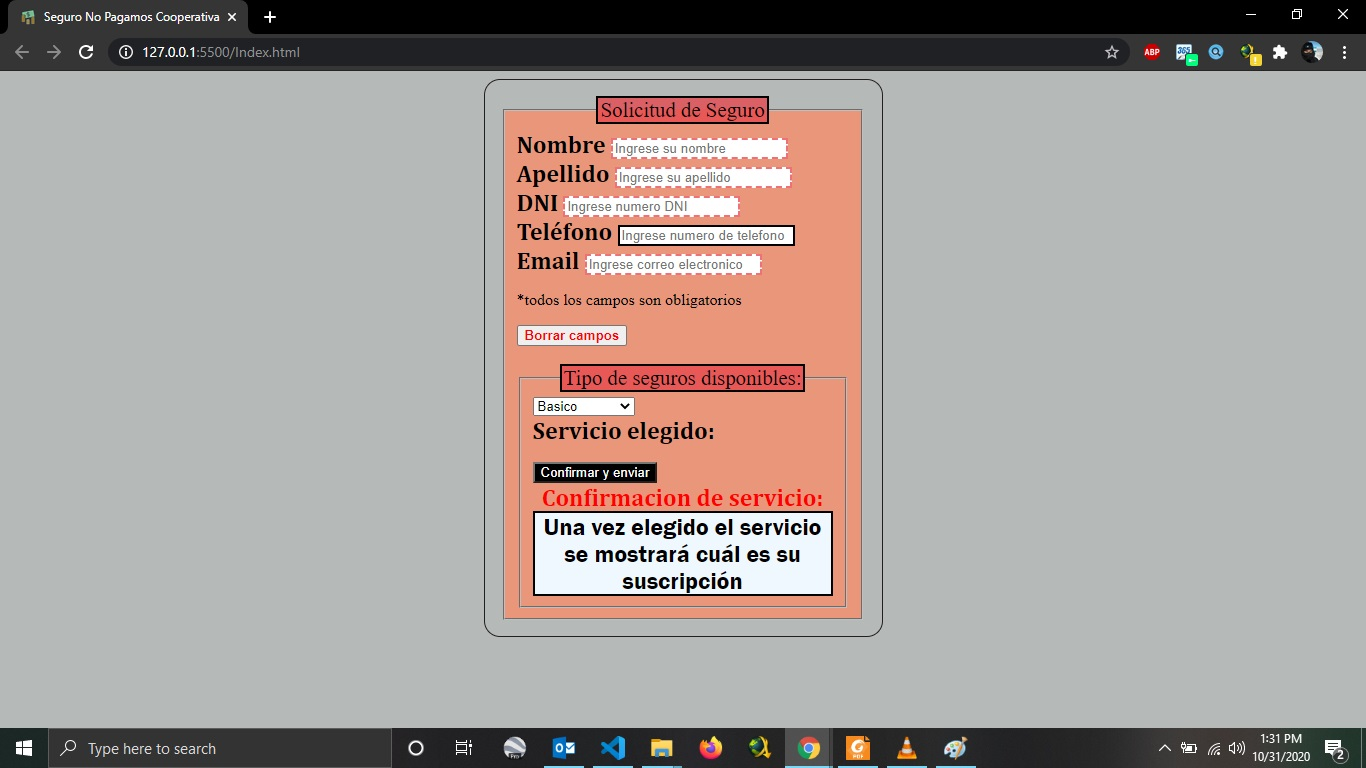
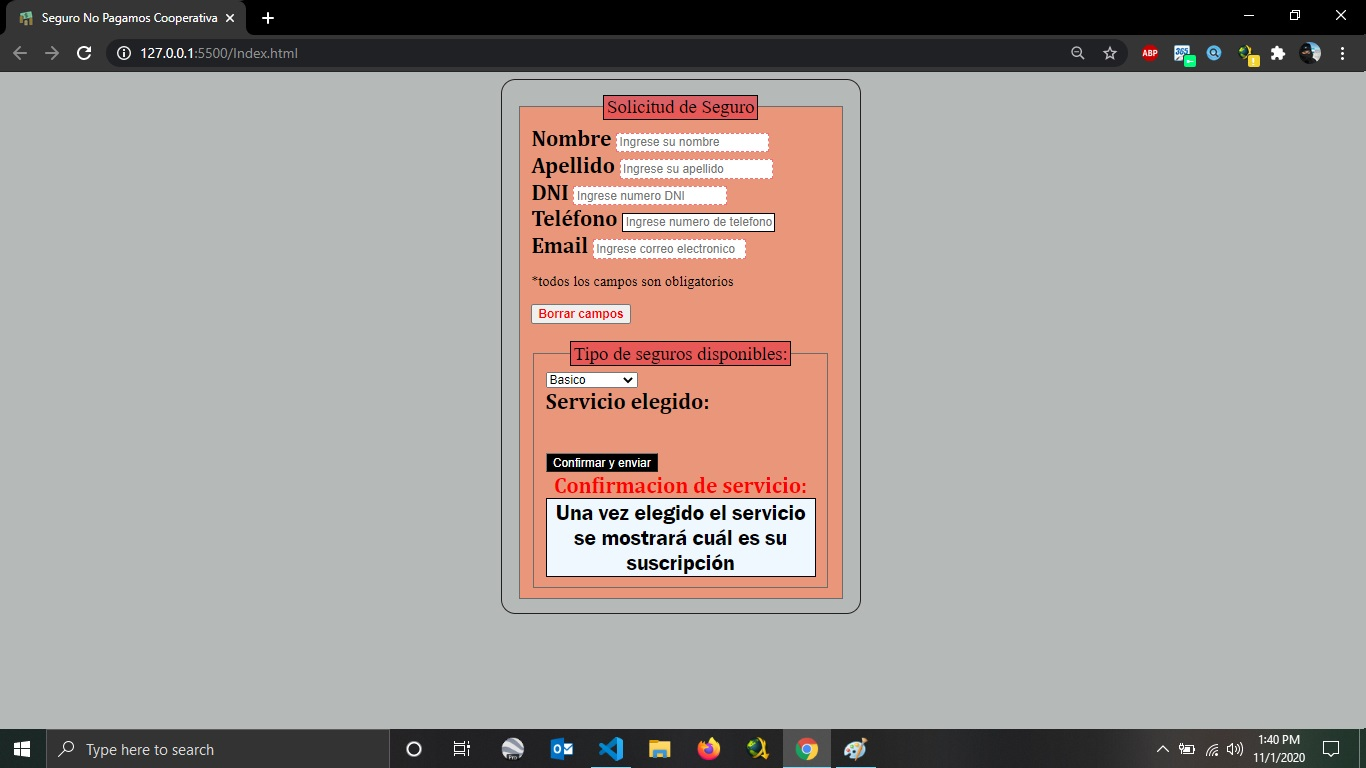
cambios de diseño

diff --git a/Index.html b/Index.html
@@ -64,7 +64,7 @@
             <button class="send" id="send">Confirmar y enviar</button>
             <div>
               <label for="" ; id="final">Confirmacion de servicio:</label>
-              <div id="eleccion">
+              <div id="eleccion" style="text-align: center;">
                 Una vez elegido el servicio se mostrará cuál es su suscripción
               </div>
             </div>
